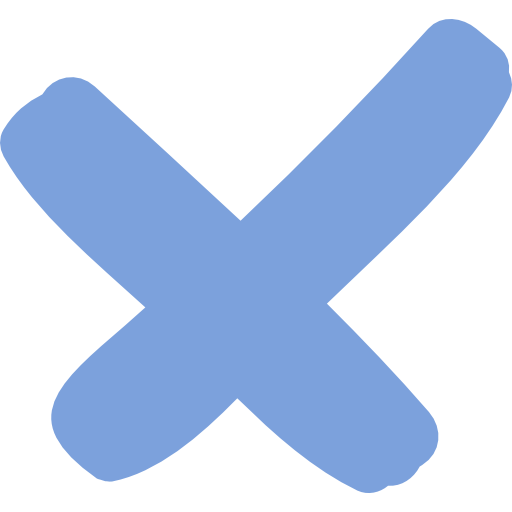
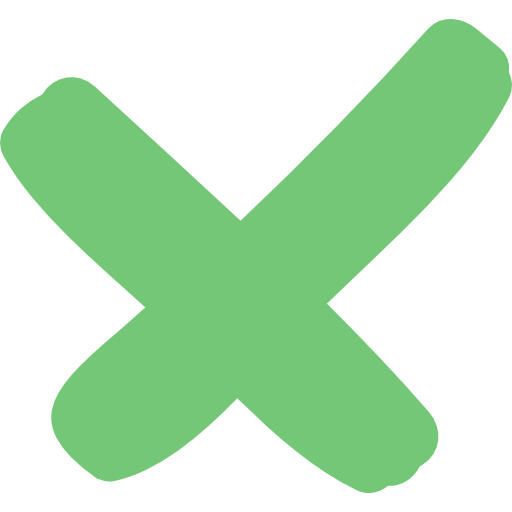
mainWindow Rebuild with HardCode And new Assets

diff --git a/mainwindow.cpp b/mainwindow.cpp
@@ -1,0 +1,37 @@
+#include "mainwindow.h"
+
+mainWindow::mainWindow()
+{
+    wbtn = 700;
+    hbtn = 80;
+    setWindowFlags(Qt::Window|Qt::FramelessWindowHint);
+    showMaximized();
+    StartNewGame = new QPushButton( "Start New Game" , this);
+    LoadGame = new QPushButton("Load Game" , this);
+    Exit = new QPushButton("Exit" , this);
+    Credits = new QPushButton("Credits" , this);
+    this->layout()->addWidget(StartNewGame);
+    this->layout()->addWidget(LoadGame);
+    this->layout()->addWidget(Credits);
+    this->layout()->addWidget(Exit);
+    StartNewGame->setGeometry(x() , y()*2-30 , wbtn , hbtn);
+    LoadGame->setGeometry(x() , y()*2+90 , wbtn , hbtn);
+    Credits->setGeometry(x() , y()*2+210 , wbtn , hbtn);
+    Exit->setGeometry(50 , y()*2+350 , 170  ,hbtn);
+    Exit->setIcon(QIcon( QPixmap(":/Icons/Images/cross.png")));
+    Exit->setIconSize(QSize(35 , 35));
+    setStyleSheet("QMainWindow{background-image:url(:/Backgrounds/Images/mainBackground.png);}QPushButton{background-color: rgba(92, 185, 95, 180);border-radius:40;font: 63 28pt \"Bw Stretch Medium\";border:2px solid rgba(92, 185, 95);}QPushButton:hover{background-color: rgba(92, 185, 95, 220);color:rgb(117, 234, 118);}QPushButton:pressed{background-color: rgba(92, 185, 95, 245);}");
+    connect(Exit ,&QPushButton::clicked , this , &mainWindow::exitP );
+    connect(StartNewGame , &QPushButton::clicked , this , &mainWindow::showGame);
+}
+
+void mainWindow::exitP()
+{
+    exit(1);
+}
+
+void mainWindow::showGame()
+{
+    game = new Game();
+    game->show();
+}

diff --git a/mainwindow.h b/mainwindow.h
@@ -1,0 +1,23 @@
+#ifndef MAINWINDOW_H
+#define MAINWINDOW_H
+
+#include <QMainWindow>
+#include <QVBoxLayout>
+#include <QPushButton>
+#include "Game.h"
+class mainWindow : public QMainWindow
+{
+public:
+    mainWindow();
+
+private slots:
+    void exitP();
+    void showGame();
+private:
+    QPushButton *LoadGame , *Exit , *StartNewGame , *Credits ;
+    QVBoxLayout *mainLayout;
+    int wbtn , hbtn;
+    Game *game;
+};
+
+#endif // MAINWINDOW_H

diff --git a/main.cpp b/main.cpp
@@ -1,11 +1,11 @@
-#include "Mainwindow.h"
+#include "mainwindow.h"
 
 #include <QApplication>
 
 int main(int argc, char *argv[])
 {
     QApplication a(argc, argv);
-    MainWindow w;
-    w.show();
+    mainWindow window;
+    window.show();
     return a.exec();
 }
